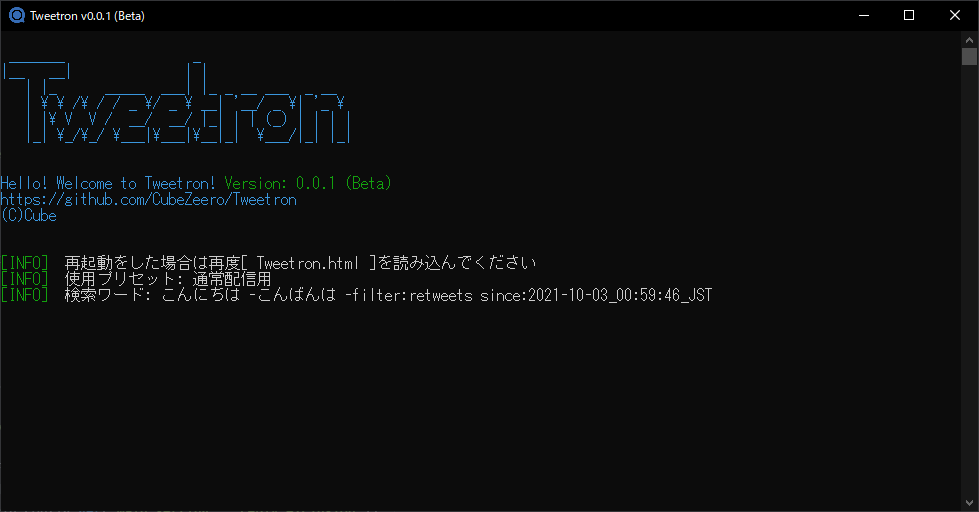
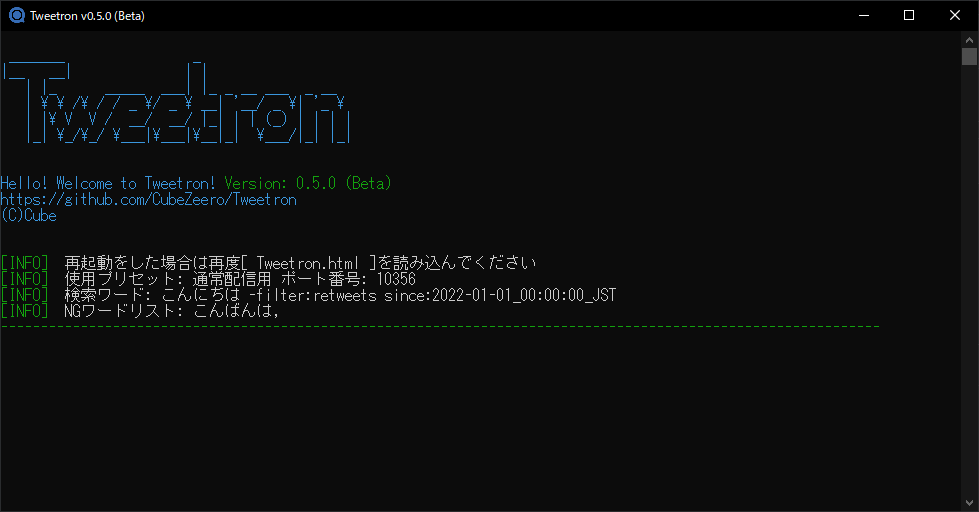
bugfix and update

Changed region(s): [[0.2758, 0.5312, 0.7354, 0.5938], [0.0, 0.5938, 0.0919, 0.625], [0.2145, 0.5938, 0.2758, 0.625]]

diff --git a/Tweetron_GUI.py b/Tweetron_GUI.py
@@ -359,7 +359,8 @@ if twitter_oauth_sw == 0:
                     }
 
                     main_config['MainConfig'] = {
-                        'OAuth2_sw': 1
+                        'OAuth2_sw': 1,
+                        'portnumber': '10365'
                     }
 
                     with open('data/ini/config.ini', 'w') as cw:
